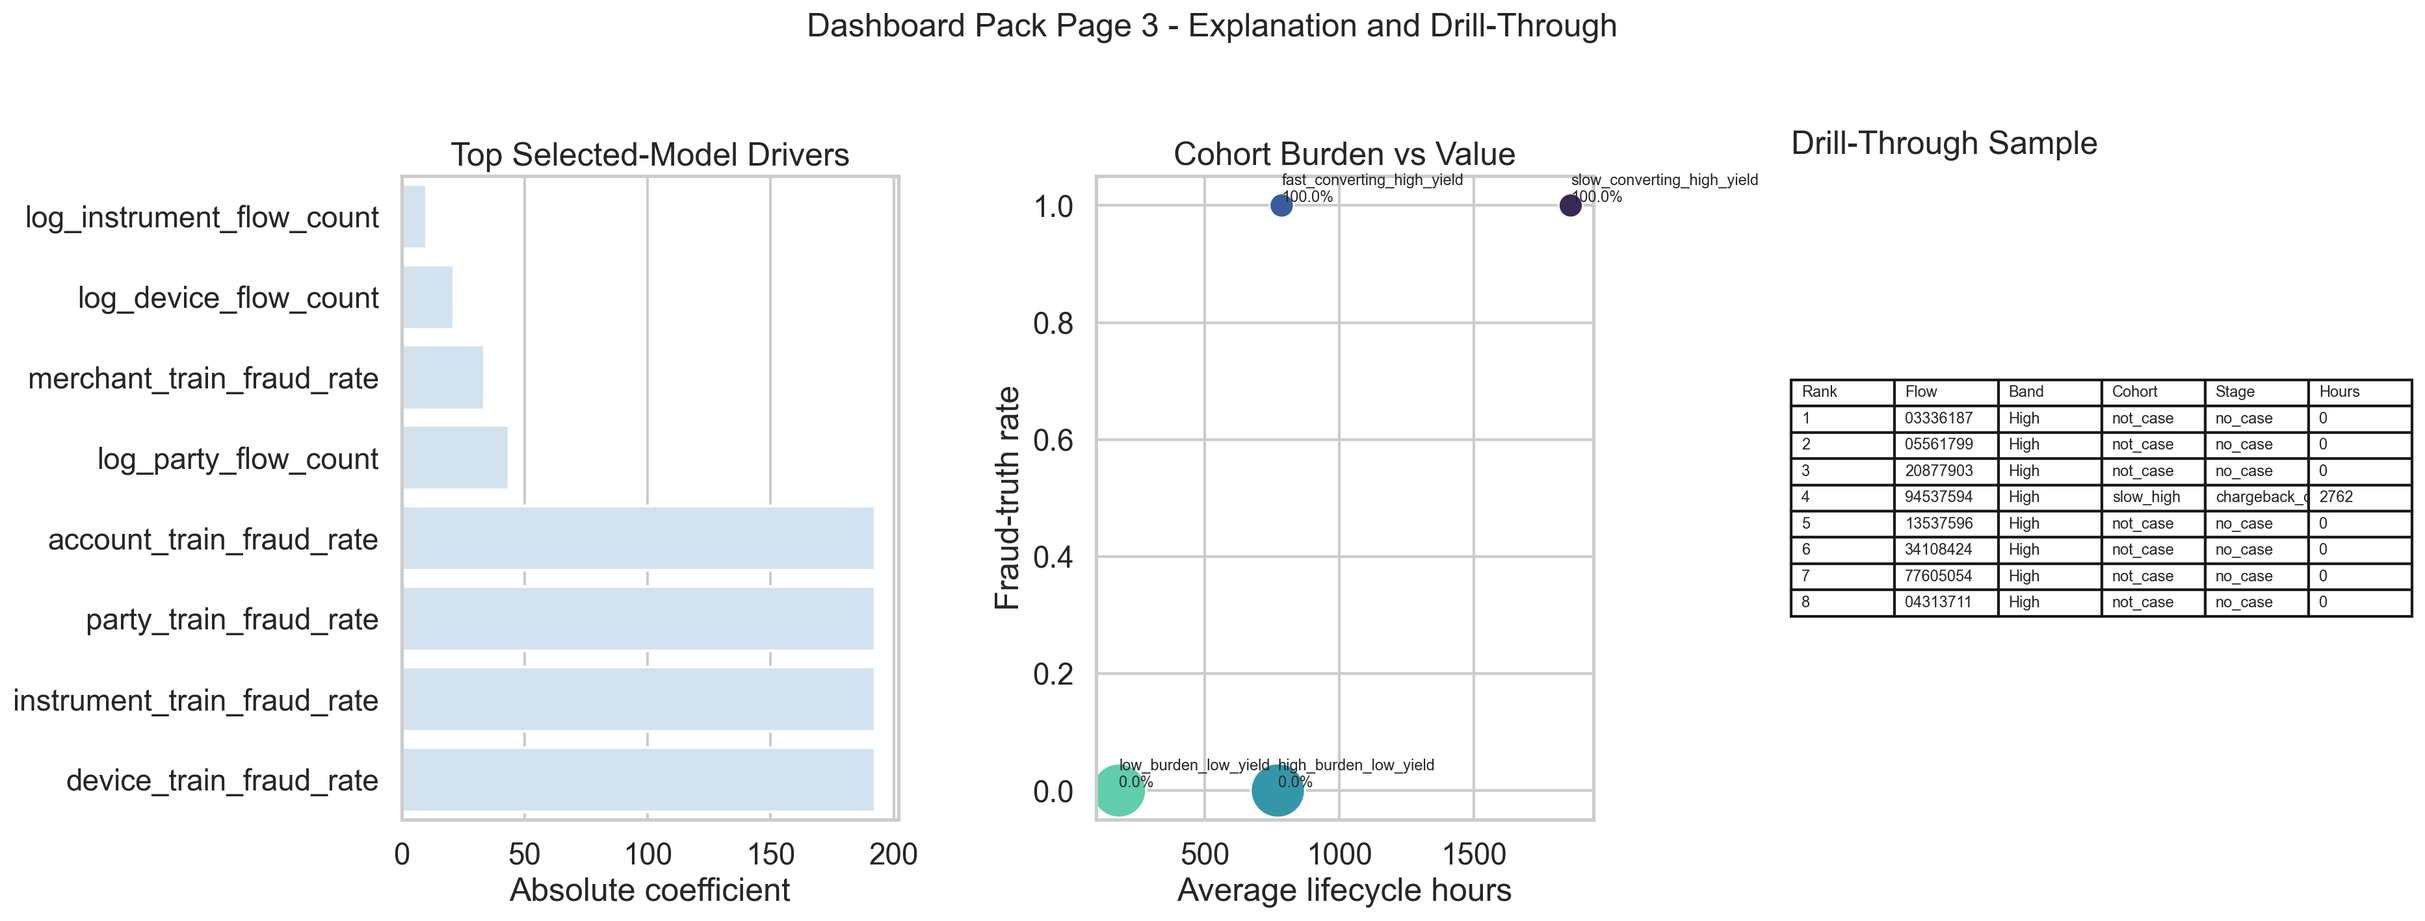
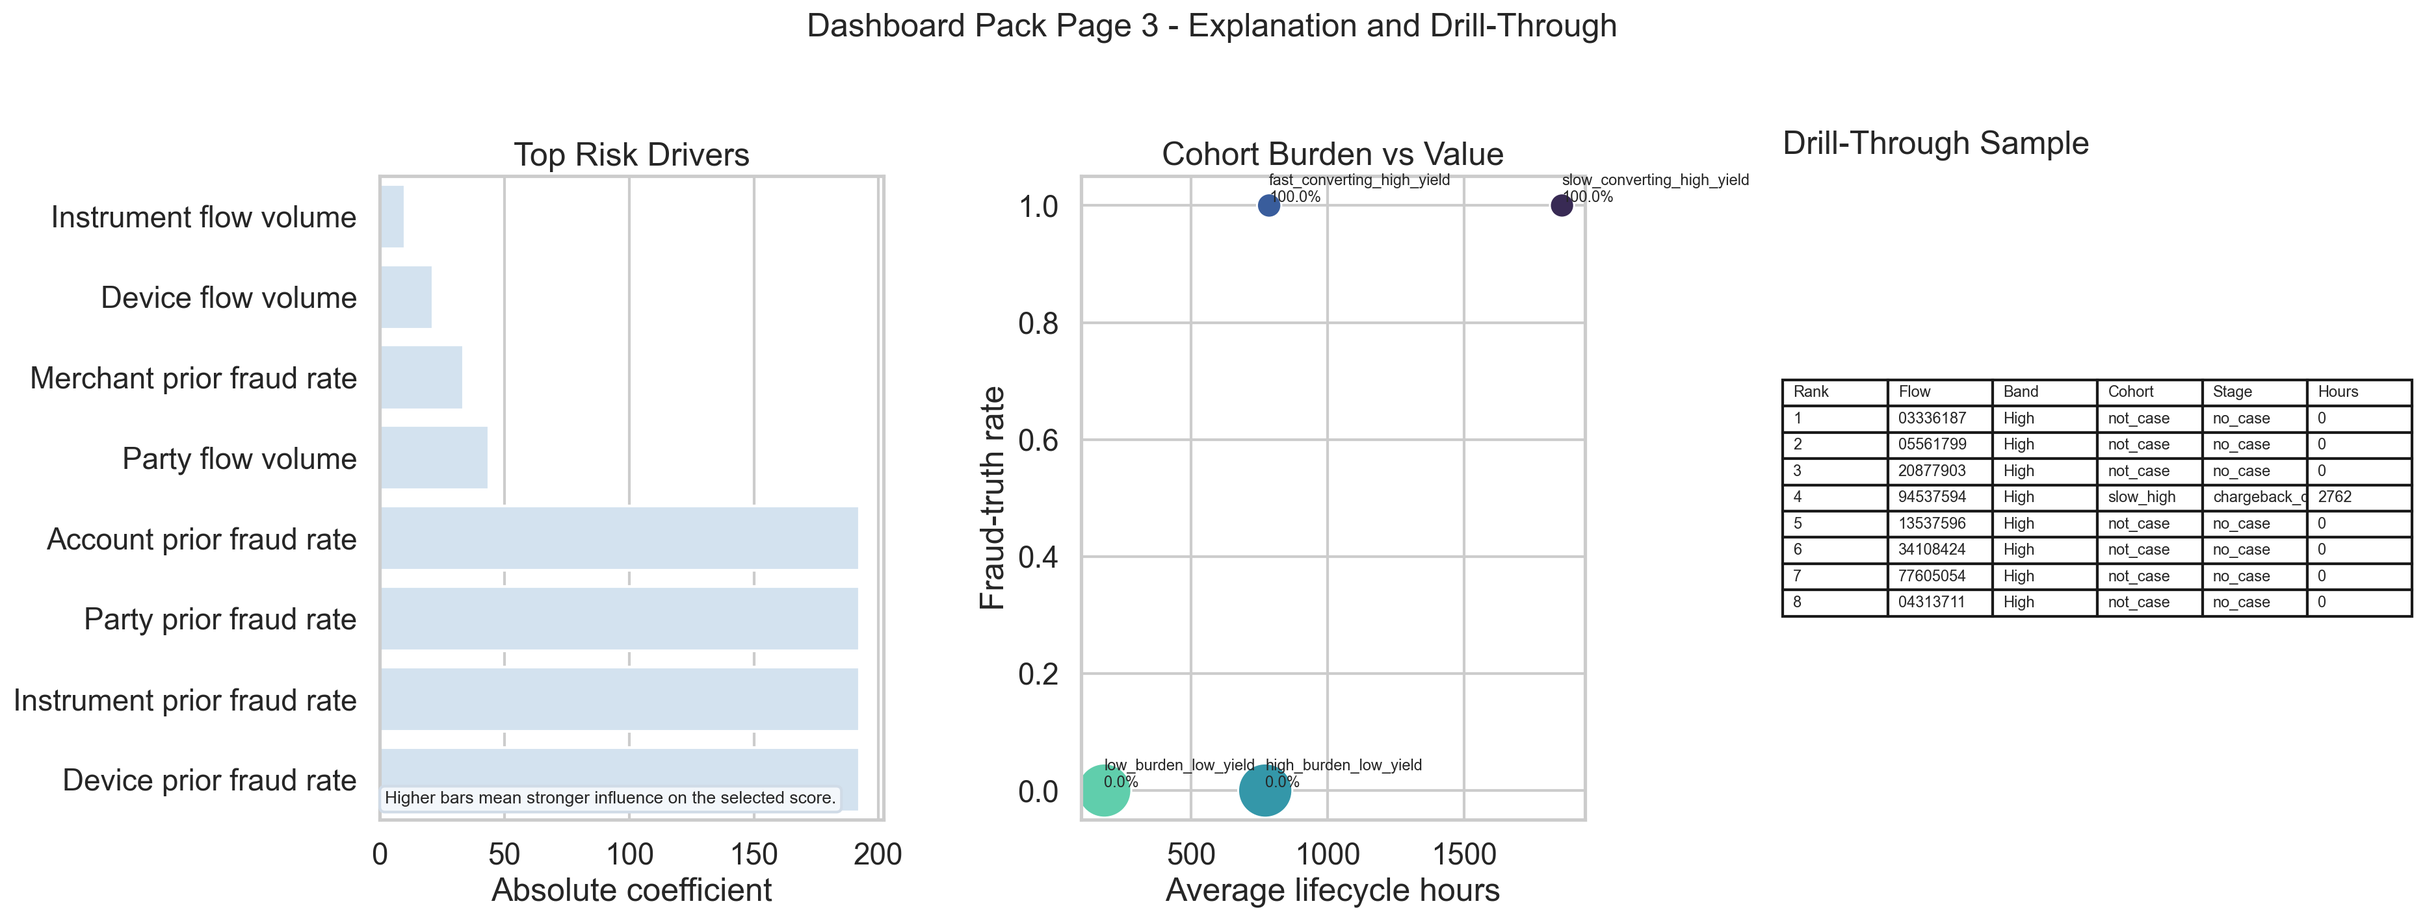
Enhance dashboard decision support with clearer explanations and new execution report

diff --git a/artefacts/analytics_slices/data_scientist/midlands_partnership_nhs_ft/06_dashboard_decision_support/models/build_dashboard_decision_support.py b/artefacts/analytics_slices/data_scientist/midlands_partnership_nhs_ft/06_dashboard_decision_support/models/build_dashboard_decision_support.py
@@ -100,6 +100,20 @@ def short_cohort_label(value: str) -> str:
     return mapping.get(value, value)
 
 
+def plain_driver_label(value: str) -> str:
+    mapping = {
+        "device_train_fraud_rate": "Device prior fraud rate",
+        "instrument_train_fraud_rate": "Instrument prior fraud rate",
+        "party_train_fraud_rate": "Party prior fraud rate",
+        "account_train_fraud_rate": "Account prior fraud rate",
+        "merchant_train_fraud_rate": "Merchant prior fraud rate",
+        "log_party_flow_count": "Party flow volume",
+        "log_device_flow_count": "Device flow volume",
+        "log_instrument_flow_count": "Instrument flow volume",
+    }
+    return mapping.get(value, value.replace("_", " "))
+
+
 def main() -> None:
     sns.set_theme(style="whitegrid", context="talk")
 
@@ -408,6 +422,16 @@ def main() -> None:
     table.auto_set_font_size(False)
     table.set_fontsize(9)
     table.scale(1.0, 1.35)
+    axes[2].text(
+        0.0,
+        0.06,
+        "`no_case` rows are top-ranked review candidates not yet converted into cases.",
+        transform=axes[2].transAxes,
+        fontsize=9.5,
+        ha="left",
+        va="bottom",
+        bbox={"boxstyle": "round,pad=0.35", "facecolor": "#f3f7fb", "edgecolor": "#b7cde3"},
+    )
 
     fig.suptitle("Dashboard Pack Page 2 - Workflow and Prioritisation", y=1.02, fontsize=18)
     fig.tight_layout()
@@ -417,19 +441,30 @@ def main() -> None:
     # Page 3: Explanation and drill-through
     fig, axes = plt.subplots(1, 3, figsize=(19, 7), gridspec_kw={"width_ratios": [1.0, 1.0, 1.25]})
 
-    coeffs = top_coeffs_df.sort_values("abs_coefficient", ascending=True)
+    coeffs = top_coeffs_df.sort_values("abs_coefficient", ascending=True).copy()
+    coeffs["feature_label"] = coeffs["feature"].map(plain_driver_label)
     sns.barplot(
         data=coeffs,
         x="abs_coefficient",
-        y="feature",
-        hue="feature",
+        y="feature_label",
+        hue="feature_label",
         palette=["#cfe2f3"] * len(coeffs),
         legend=False,
         ax=axes[0],
     )
-    axes[0].set_title("Top Selected-Model Drivers")
+    axes[0].set_title("Top Risk Drivers")
     axes[0].set_xlabel("Absolute coefficient")
     axes[0].set_ylabel("")
+    axes[0].text(
+        0.01,
+        0.02,
+        "Higher bars mean stronger influence on the selected score.",
+        transform=axes[0].transAxes,
+        fontsize=9.5,
+        ha="left",
+        va="bottom",
+        bbox={"boxstyle": "round,pad=0.3", "facecolor": "#f3f7fb", "edgecolor": "#d0dbe7"},
+    )
 
     cohort_truth_df = (
         current_case_df.groupby("cohort_label")
@@ -561,9 +596,10 @@ def main() -> None:
         Page 2 - Workflow and prioritisation:
         - workflow pressure is read through pathway stages and current risk-band workload
         - prioritisation table is bounded to the highest-ranked current test flows
+        - `no_case` rows are review-priority candidates that have not yet converted into cases
 
         Page 3 - Explanation and drill-through:
-        - explanation shows the selected-model driver family
+        - explanation shows the selected-model driver family in plainer business language
         - cohort contrast shows where value and burden separate
         - drill-through sample is bounded to the current high-priority queue
         """,

diff --git a/docs/experience_lake/outward-facing-assets/analytics-role-lenses/data_scientist/midlands_partnership_nhs_ft/06_dashboard_decision_support/execution_report.md b/docs/experience_lake/outward-facing-assets/analytics-role-lenses/data_scientist/midlands_partnership_nhs_ft/06_dashboard_decision_support/execution_report.md
@@ -1,0 +1,293 @@
+# Execution Report - Dashboard Integration and Decision Support Slice
+
+As of `2026-04-03`
+
+Purpose:
+- record what was actually executed for the Midlands `Data Scientist` dashboard-integration-and-decision-support slice
+- preserve the truth boundary between one bounded decision-support reporting pack and any wider claim about an enterprise BI estate
+- package the saved facts, reporting-ready views, dashboard pages, KPI notes, and audience-facing briefs into one outward-facing report
+
+Truth boundary:
+- this execution was completed against a bounded governed local slice derived from `runs/local_full_run-7`
+- the base analytical unit was `flow_id`
+- the pack reused the selected governed model outputs from slice `05_governed_explainable_ai` and pathway context from slice `03_population_pathway_analysis`
+- the execution used a 20-part aligned subset of the local governed surfaces, not the full run estate
+- the slice therefore supports a truthful claim about turning governed model and cohort outputs into one compact dashboard and decision-support pack
+- it does not support a claim that a full Power BI estate, enterprise semantic layer, or broad dashboard programme has already been implemented
+
+---
+
+## 1. Executive Answer
+
+The slice asked:
+
+`can bounded governed model and cohort outputs be turned into a reporting and decision-support pack that non-technical readers can actually use, rather than being left as technical analysis only?`
+
+The bounded answer is:
+- one reporting-ready dashboard base was built over `1,382,244` scored validation and test rows at `flow_id` grain
+- that base was shaped into one compact executive-summary surface with `37` summary rows and one bounded drill-through surface with `142,800` current-priority rows
+- the current bounded reporting window contains `691,122` scored test flows, with `37,250` in the `High` band and `105,550` in the `Medium` band
+- the current `High` band keeps authoritative fraud truth concentrated at `6.32%`, while the overall case-open rate in the current reporting window is `10.66%`
+- case-selected burden remains concentrated in `high_burden_low_yield`, which accounts for `40.3%` of case-selected current-window flows
+- the largest current case-selected pathway stage is `opened_only`, but its authoritative fraud-truth rate is only `0.23%`, which gives the dashboard pack a real operational interpretation to carry rather than generic KPI display
+- the delivered pack includes three audience-shaped pages, stable KPI definitions, an executive brief, an operations note, and a challenge-response note
+
+That means this slice delivered one bounded model-to-reporting operationalisation pack rather than only a set of charts or a model result left in technical form.
+
+## 2. Slice Summary
+
+The slice executed was:
+
+`a flow-level prioritisation and operations dashboard pack built from governed model and cohort outputs`
+
+This was chosen because it allowed a compact but defensible response to the Midlands responsibility:
+- shape model and cohort outputs into reporting-ready views rather than leave them in technical analysis form
+- build a compact pack with distinct executive, operational, and drill-through reading paths
+- keep KPI definitions stable across pages
+- make the output understandable to non-technical users through annotation and briefing notes
+- avoid becoming tool-locked to Power BI before the reporting logic and audience structure were already sound
+
+The primary proof object was:
+- `dashboard_decision_support_v1`
+
+The main upstream analytical dependencies were:
+- selected-model scored outputs from slice `05_governed_explainable_ai`
+- pathway and cohort context from slice `03_population_pathway_analysis`
+
+## 3. How This Maps To The Slice Plan
+
+The execution stayed aligned to the approved `3G` slice definition rather than drifting back into pure modelling or generic BI talk.
+
+The delivered scope maps back to the planned lens responsibilities as follows:
+- `04 - Analytics Engineering and Analytical Data Product`: one reporting-ready base view, one summary view, one drill-through view, and one product contract
+- `07 - Advanced Analytics and Data Science`: reuse of selected risk bands, prioritisation ordering, cohort labels, and explanation drivers worth surfacing
+- `02 - BI, Insight, and Reporting Analytics`: one compact three-page dashboard pack with executive, workflow, and drill-through structure
+- `08 - Stakeholder Translation, Communication, and Decision Influence`: KPI definitions, page notes, executive brief, operations note, and challenge-response note
+
+The report therefore needs to be read as proof that one governed scoring-and-pathway output family was operationalised into stakeholder-facing decision support, not as proof that a broad BI platform rollout has already happened.
+
+## 4. Execution Posture
+
+The execution followed the agreed `04 -> 07 -> 02 -> 08` order.
+
+The working discipline was:
+- reuse earlier governed model and pathway outputs instead of rebuilding them
+- shape a reporting-ready base before composing any page
+- keep the pack bounded to exactly three pages
+- keep KPI count intentionally small
+- write page-level and audience-level explanation notes so the pack remained usable without oral walkthrough
+
+This matters for the truth of the slice because the requirement is about dashboard integration and decision support, not about merely proving that plotting libraries are available.
+
+## 5. Bounded Build That Was Actually Executed
+
+### 5.1 Reporting-ready base and output profile
+
+The pack did not sit directly on raw extracts. A reporting-ready flow-level layer was built first.
+
+Observed output profile:
+
+| Output | Rows |
+| --- | ---: |
+| `flow_dashboard_base_v1` | 1,382,244 |
+| `flow_dashboard_summary_v1` | 37 |
+| `flow_dashboard_drillthrough_v1` | 142,800 |
+
+Reading:
+- the base view carries the bounded validation and test scored population
+- the summary surface is deliberately compact and page-ready rather than a broad analytical dump
+- the drill-through surface is bounded to the current `High + Medium` queue, which keeps the operational page focused on the current review-first workload
+
+### 5.2 Current reporting window profile
+
+The pack is anchored to the current scored test window, with the earlier validation window kept only for immediate comparison.
+
+Observed split profile:
+
+| Split | Flow Rows | High Rows | Medium Rows | Fraud-Truth Rate | Case-Open Rate |
+| --- | ---: | ---: | ---: | ---: | ---: |
+| Validation | 691,122 | 34,557 | 103,668 | 2.73% | 10.51% |
+| Test | 691,122 | 37,250 | 105,550 | 2.73% | 10.66% |
+
+Current-window reading:
+- the pack is working over a real bounded workload, not toy counts
+- the `High + Medium` queue contains `142,800` current-window flows
+- the selected-model concentration seen in slice `05` remains present in the reporting surface rather than being lost in packaging
+
+### 5.3 Surfaced model and pathway facts
+
+The dashboard pack reused existing governed analytical outputs rather than inventing new logic for presentation.
+
+Current-window surfaced facts:
+
+| Measure | Value |
+| --- | ---: |
+| Current scored flows | 691,122 |
+| Current `High` band flows | 37,250 |
+| Current `Medium` band flows | 105,550 |
+| Current `High` band truth rate | 6.32% |
+| Current case-open rate | 10.66% |
+| Top case-selected cohort | `high_burden_low_yield` |
+| Share of case-selected flows in top cohort | 40.3% |
+| Top case-selected pathway stage | `opened_only` |
+| Truth rate in top pathway stage | 0.23% |
+
+Operational reading:
+- the pack supports a direct “where should we look first?” answer through the `High` and `Medium` bands
+- it also supports a more important second-order reading:
+  - not all burden is value
+  - the current workload remains heavily exposed to low-yield case-selected burden
+
+That is what turns the pack into decision support rather than passive reporting.
+
+## 6. Dashboard Pack Actually Delivered
+
+### 6.1 Page 1 - Executive overview
+
+The executive page was designed to answer:
+- what changed?
+- how much bounded work is in scope?
+- where is value concentration holding?
+
+Delivered components:
+- headline workload and band KPIs
+- one weekly priority-share trend panel
+- one case-selected cohort concentration panel
+- one short “what changed” annotation
+
+The page keeps the top-line reading compact:
+- the current bounded view holds `691,122` scored flows
+- the selected model still concentrates truth into the `High` band at `6.3%`
+- the current case-selected burden is still concentrated in low-yield cohorts
+
+### 6.2 Page 2 - Workflow and prioritisation
+
+The workflow page was designed to answer:
+- what deserves attention first?
+- how does the current queue relate to pathway and workload pressure?
+
+Delivered components:
+- pathway-stage truth-rate comparison
+- risk-band workload surface
+- bounded top-priority table
+- on-page note explaining why some top-ranked rows still show `no_case`
+
+The strongest operational reading on this page is:
+- the largest current case-selected stage is `opened_only`
+- but that stage carries only `0.23%` authoritative fraud truth
+- the dashboard therefore supports a real intervention reading:
+  - review priority should stay strongest in the `High` band
+  - but downstream case burden still needs to be separated into high-value versus high-burden low-value work
+
+### 6.3 Page 3 - Explanation and drill-through
+
+The explanation page was designed to answer:
+- why does this group matter?
+- what is driving the selected-model ranking?
+- what does a bounded priority sample actually contain?
+
+Delivered components:
+- selected-model top-driver panel translated into plainer business language
+- cohort burden-versus-value contrast
+- bounded drill-through sample
+
+The page keeps the model-readable content linked to downstream decision use:
+- top selected-model drivers are surfaced as a challengeable explanation family
+- the cohort contrast shows where burden and value separate
+- the drill-through sample shows what the current queue actually looks like at row level
+
+## 7. Figures
+
+The figure pack is the dashboard pack for this slice, so it is part of execution rather than an afterthought.
+
+### 7.1 Executive overview
+
+![Executive overview](../../../../../../../artefacts/analytics_slices/data_scientist/midlands_partnership_nhs_ft/06_dashboard_decision_support/figures/executive_overview.png)
+
+This page carries the executive story:
+- workload is bounded and concrete
+- the selected score still concentrates value into the `High` band
+- case-selected burden remains concentrated in low-yield cohorts
+
+### 7.2 Workflow and prioritisation
+
+![Workflow and prioritisation](../../../../../../../artefacts/analytics_slices/data_scientist/midlands_partnership_nhs_ft/06_dashboard_decision_support/figures/workflow_and_prioritisation.png)
+
+This page carries the operational story:
+- the pack is not just reporting band counts
+- it shows pathway-stage outcome differences and current risk-band workload
+- it grounds the prioritisation story in a bounded queue rather than an abstract score
+
+Important reading boundary:
+- some top-ranked rows still show `no_case`
+- the page now states directly that these are review-priority candidates that have not yet become cases, not a broken queue
+
+### 7.3 Explanation and drill-through
+
+![Explanation and drill-through](../../../../../../../artefacts/analytics_slices/data_scientist/midlands_partnership_nhs_ft/06_dashboard_decision_support/figures/explanation_and_drillthrough.png)
+
+This page carries the explanation story:
+- the selected-model driver family remains visible enough to challenge without relying only on raw encoded feature names
+- cohort burden and value are separated into a decision-useful contrast
+- the drill-through view keeps the pack anchored in concrete bounded records
+
+## 8. Audience Packs Produced
+
+The slice produced the audience material that turns the visual pack into decision support.
+
+Reporting and definition notes:
+- KPI definitions note
+- page notes
+- product contract
+
+Stakeholder-facing notes:
+- executive brief
+- operations note
+- challenge-response note
+
+Pack surface:
+- compact three-page dashboard pack in markdown-plus-figure form
+
+That is the main distinction between this slice and the earlier analytical ones:
+- here, the output was translated into audience-shaped reporting and action notes rather than being left as raw analysis, model metrics, or cohort tables
+
+## 9. What This Slice Supports Claiming
+
+This slice supports truthful statements such as:
+- operationalised governed model and cohort outputs into one compact decision-support reporting pack
+- built reporting-ready base, summary, and drill-through layers rather than charting directly from raw technical outputs
+- delivered distinct executive, operational, and drill-through views over the same stable KPI family
+- translated the visual pack into executive, operational, and challenge-response notes for non-technical users
+
+The slice does not support claiming that:
+- a full enterprise dashboard estate has already been built
+- Power BI deployment itself is the completed proof
+- the dashboard pack replaces underlying model caveats or operational review
+- the bounded views represent the whole fraud platform or all possible dashboard audiences
+
+## 10. Candidate Resume Claim Surfaces
+
+This section should be read as a response to the Midlands responsibility, not as a generic “built a dashboard” statement.
+
+The requirement asks for someone who can:
+- integrate analytical outputs into dashboards and reporting surfaces
+- make model and cohort outputs understandable to non-technical users
+- support decision-making through KPI presentation, explanation, and visual packaging
+- operationalise analytical work into stakeholder-facing products rather than leaving it as technical analysis only
+
+The claim therefore needs to answer back in evidence form:
+- I have turned governed analytical outputs into dashboard and decision-support products
+- I have done that through stable reporting-ready layers and audience-specific views, not one-off screenshots
+- I have paired visuals with action notes and caveats so the pack is usable outside technical circles
+
+### 10.1 Flagship `X by Y by Z` claim
+
+> Operationalised governed model and cohort outputs into decision-support reporting, as measured by delivery of `3` audience-specific dashboard views, consistent reuse of one shared KPI family across executive, workflow, and drill-through pages, and regeneration of the pack from controlled reporting-ready views over `1.38M` bounded scored rows, by shaping selected model and pathway outputs into reporting-ready SQL-backed views, building a compact executive/operational/drill-through dashboard pack, and adding briefing and challenge-response notes for non-technical stakeholders.
+
+### 10.2 Shorter recruiter-facing version
+
+> Turned governed analytical outputs into dashboard and decision-support products, as measured by consistent KPI reuse across multiple views and completion of executive, operational, and drill-through reporting surfaces, by packaging model and cohort results into reporting-ready views and annotated dashboard summaries for non-technical users.
+
+### 10.3 Closer direct-response version
+
+> Integrated analytical outputs into stakeholder-facing decision-support reporting, as measured by reusable dashboard views, documented KPI logic, and completed action-oriented notes for different audiences, by translating governed model and cohort outputs into clear reporting surfaces and explanation packs rather than leaving them as technical analysis only.

diff --git a/artefacts/analytics_slices/data_scientist/midlands_partnership_nhs_ft/06_dashboard_decision_support/dashboard_page_notes_v1.md b/artefacts/analytics_slices/data_scientist/midlands_partnership_nhs_ft/06_dashboard_decision_support/dashboard_page_notes_v1.md
@@ -7,8 +7,9 @@ Page 1 - Executive overview:
 Page 2 - Workflow and prioritisation:
 - workflow pressure is read through pathway stages and current risk-band workload
 - prioritisation table is bounded to the highest-ranked current test flows
+- `no_case` rows are review-priority candidates that have not yet converted into cases
 
 Page 3 - Explanation and drill-through:
-- explanation shows the selected-model driver family
+- explanation shows the selected-model driver family in plainer business language
 - cohort contrast shows where value and burden separate
 - drill-through sample is bounded to the current high-priority queue
